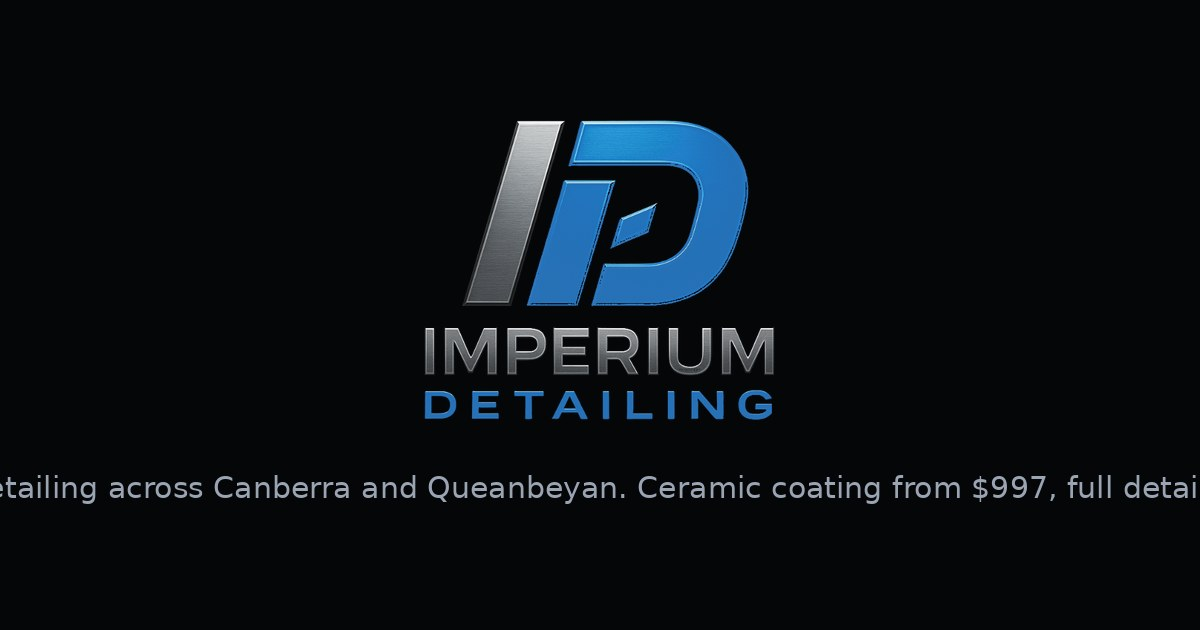
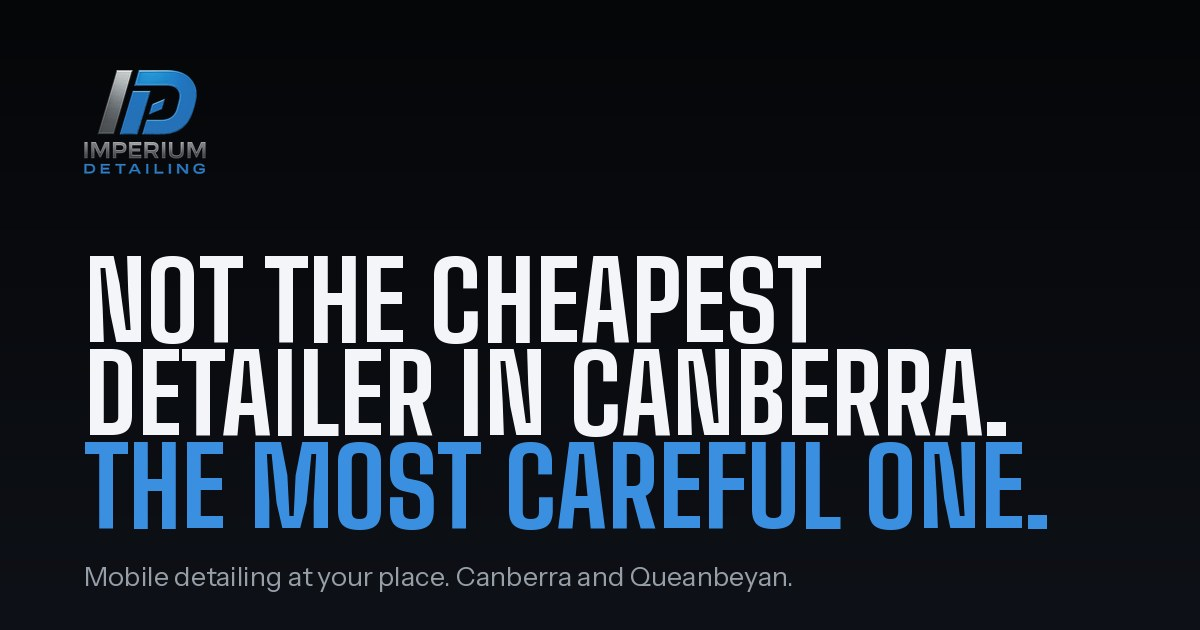
Close the technical SEO gaps the audit found
The share card was cut off at both edges — it read "etailing across Canberra
and ... full detai" — which is what everyone saw who shared the site
anywhere. Rebuilt in the site's own Big Shoulders and Instrument Sans, and
the builder now measures every line against the margins and shrinks to fit,
because nothing measured before. It carries the tagline rather than the
description, so the card itself turns away the wrong customer.

/car-detailing-canberra/ targets the broadest local search there is and had
no inbound link from anywhere on the site, so nothing passed to it. It is in
the footer now, with an all-areas link beside it.

The business listing gains coordinates and a service radius, which is what a
mobile business declares in place of a shopfront, and its sameAs now names
the Google Business Profile. That profile link also replaces the Maps search
behind "Read them on Google", which could list competitors alongside
Imperium and rendered differently on different devices.

The three guides were undated in the markup and on the page. They now carry
datePublished and dateModified taken from when the copy was actually written
and last revised, show that date to the reader so the two agree, and are
tagged og:type article rather than website. Every page emits og:url, so a
shared link with tracking on it collapses to the real one.

Claude-Session: https://claude.ai/code/session_01GvzXowE5nZSwUDMUMfhmdR

Changed region(s): [[0.0, 0.181, 1.0, 0.8444], [0.0617, 0.0905, 0.185, 0.3016], [0.0617, 0.9048, 0.6475, 0.9349]]

diff --git a/website/app/learn/[slug]/page.tsx b/website/app/learn/[slug]/page.tsx
@@ -2,6 +2,7 @@ import type { Metadata } from "next";
 import Link from "next/link";
 import { notFound } from "next/navigation";
 import { articles, getArticle } from "@/lib/articles";
+import { site } from "@/lib/site";
 import { services, formatPrice } from "@/lib/services";
 import { Faq } from "@/components/site/faq";
 import { CtaBand } from "@/components/site/cta-band";
@@ -17,7 +18,17 @@ export async function generateMetadata({ params }: { params: Promise<Params> }):
   const { slug } = await params;
   const a = getArticle(slug);
   if (!a) return {};
-  return { title: a.title, description: a.description, alternates: { canonical: `/learn/${a.slug}/` } };
+  return {
+    title: a.title,
+    description: a.description,
+    alternates: { canonical: `/learn/${a.slug}/` },
+    openGraph: {
+      url: `/learn/${a.slug}/`,
+      type: "article",
+      publishedTime: a.published,
+      modifiedTime: a.updated,
+    },
+  };
 }
 
 export default async function ArticlePage({ params }: { params: Promise<Params> }) {
@@ -25,13 +36,24 @@ export default async function ArticlePage({ params }: { params: Promise<Params> 
   const a = getArticle(slug);
   if (!a) notFound();
 
+  const url = `${site.url}/learn/${a.slug}/`;
   const ld = {
     "@context": "https://schema.org",
     "@type": "Article",
     headline: a.h1,
     description: a.description,
-    author: { "@type": "Organization", name: "Imperium Detailing" },
-    publisher: { "@type": "Organization", name: "Imperium Detailing" },
+    // Without these a guide has no age, and Google has nothing to freshen it on.
+    datePublished: a.published,
+    dateModified: a.updated,
+    mainEntityOfPage: { "@type": "WebPage", "@id": url },
+    image: `${site.url}/brand/og-image.jpg`,
+    author: { "@type": "Organization", name: site.name, url: site.url },
+    publisher: {
+      "@type": "Organization",
+      name: site.name,
+      url: site.url,
+      logo: { "@type": "ImageObject", url: `${site.url}/brand/logo-full-dark-640.png` },
+    },
   };
 
   return (
@@ -41,6 +63,12 @@ export default async function ArticlePage({ params }: { params: Promise<Params> 
         <Breadcrumbs items={[{ href: "/learn/", label: "Guides" }, { href: `/learn/${a.slug}/`, label: a.title }]} />
         <h1 className="display-caps mt-3 max-w-4xl text-5xl md:text-7xl">{a.h1}</h1>
         <p className="mt-6 max-w-[62ch] text-lg text-secondary-foreground">{a.intro}</p>
+        <p className="mt-4 text-sm text-muted-foreground">
+          Last updated{" "}
+          <time dateTime={a.updated}>
+            {new Date(a.updated).toLocaleDateString("en-AU", { day: "numeric", month: "long", year: "numeric" })}
+          </time>
+        </p>
 
         <div className="mt-10 grid gap-10 md:grid-cols-12">
           <div className="grid gap-10 md:col-span-8">

diff --git a/website/lib/articles.ts b/website/lib/articles.ts
@@ -4,6 +4,9 @@ export type Section = { h: string; p?: string[]; list?: string[] };
 
 export type Article = {
   slug: string;
+  /** ISO dates. Google wants these on a guide, and wants them to match what the page shows. */
+  published: string;
+  updated: string;
   title: string;
   description: string;
   h1: string;
@@ -16,6 +19,8 @@ export type Article = {
 export const articles: Article[] = [
   {
     slug: "car-detailing-cost-canberra",
+    published: "2026-09-12",
+    updated: "2026-09-13",
     title: "Car Detailing Cost in Canberra (2026)",
     description:
       "Real Canberra detailing prices: what a full detail, interior, exterior, paint correction and ceramic coating actually cost, and what moves the price.",
@@ -80,6 +85,8 @@ export const articles: Article[] = [
   },
   {
     slug: "ceramic-coating-vs-paint-correction",
+    published: "2026-09-12",
+    updated: "2026-09-13",
     title: "Ceramic Coating vs Paint Correction",
     description:
       "The difference between paint correction and ceramic coating, which order they happen in, and how to tell which one your car needs.",
@@ -133,6 +140,8 @@ export const articles: Article[] = [
   },
   {
     slug: "dealer-paint-protection-vs-ceramic-coating",
+    published: "2026-09-12",
+    updated: "2026-09-13",
     title: "Dealer Paint Protection vs Ceramic",
     description:
       "What the dealer's paint protection package usually is, what a real ceramic coating is, and the questions to ask before you sign for either.",

diff --git a/website/lib/site.ts b/website/lib/site.ts
@@ -19,7 +19,10 @@ export const site = {
   quotePromise: "You'll have a quote back within a few hours, 7 days a week.",
   stats: { cars: "400+", rating: "4.9", reviewCount: 45, warrantyYears: 7 },
   // Google Business Profile: where the reviews are read, and the direct "write a review" link.
-  googleReviewsUrl: "https://www.google.com/maps/search/Imperium+Detailing+Canberra",
+  // The business profile itself, not a Maps search — a search can list competitors
+  // alongside Imperium and renders differently on different devices. Same profile
+  // ID as the write-a-review link below.
+  googleReviewsUrl: "https://g.page/r/CSwRG2iKFelCEBM/",
   googleWriteReviewUrl: "https://g.page/r/CSwRG2iKFelCEBM/review",
   // Integrations. Set these in .env.local (see README); empty means "not loaded".
   // Web3Forms takes the quote form and emails it. Its access key is public by

diff --git a/website/components/site/json-ld.tsx b/website/components/site/json-ld.tsx
@@ -34,7 +34,17 @@ export function JsonLd() {
         closes: "17:30",
       },
     ],
-    sameAs: [site.instagram],
+    // Canberra's centre. A mobile business has no shopfront to pin, but Google
+    // still wants a point to measure "near me" searches from.
+    geo: { "@type": "GeoCoordinates", latitude: -35.2802, longitude: 149.131 },
+    // The van travels; this is the radius it covers, which is what a service-area
+    // business declares instead of a street address.
+    serviceArea: {
+      "@type": "GeoCircle",
+      geoMidpoint: { "@type": "GeoCoordinates", latitude: -35.2802, longitude: 149.131 },
+      geoRadius: "40000",
+    },
+    sameAs: [site.instagram, site.googleReviewsUrl],
     aggregateRating: {
       "@type": "AggregateRating",
       ratingValue: site.stats.rating,

diff --git a/website/app/warranty/page.tsx b/website/app/warranty/page.tsx
@@ -6,7 +6,7 @@ import { CtaBand } from "@/components/site/cta-band";
 export const metadata: Metadata = {
   title: "Ceramic Coating Warranty",
   description: "What Imperium Detailing's written 3, 5 and 7-year ceramic coating warranty covers, what keeps it valid, and how to make a claim.",
-  alternates: { canonical: "/warranty/" },
+  alternates: { canonical: "/warranty/" }, openGraph: { url: "/warranty/" },
 };
 
 const P = ({ children }: { children: React.ReactNode }) => <p className="mt-4 max-w-[64ch] text-[17px] text-secondary-foreground">{children}</p>;

diff --git a/website/app/car-detailing-canberra/page.tsx b/website/app/car-detailing-canberra/page.tsx
@@ -8,7 +8,7 @@ import { Booking } from "@/components/site/booking";
 export const metadata: Metadata = {
   title: "Car Detailing Canberra from $225",
   description: "Mobile car detailing in Canberra: full details from $225, interior from $140, exterior from $110. We come to your driveway or workplace, no call-out fee.",
-  alternates: { canonical: "/car-detailing-canberra/" },
+  alternates: { canonical: "/car-detailing-canberra/" }, openGraph: { url: "/car-detailing-canberra/" },
 };
 
 export default function CarDetailingCanberraPage() {

diff --git a/website/components/site/footer.tsx b/website/components/site/footer.tsx
@@ -90,6 +90,14 @@ export function Footer() {
                 {a.name}
               </Link>
             ))}
+            {/* This page targets the broadest local search there is and had no
+                inbound link anywhere on the site, so nothing passed to it. */}
+            <Link href="/car-detailing-canberra/" className={link}>
+              Car detailing Canberra
+            </Link>
+            <Link href="/service-areas/" className={link}>
+              All areas
+            </Link>
           </div>
         </div>
 

diff --git a/website/app/services/[slug]/page.tsx b/website/app/services/[slug]/page.tsx
@@ -23,7 +23,7 @@ export async function generateMetadata({ params }: { params: Promise<Params> }):
   const { slug } = await params;
   const s = getService(slug);
   if (!s) return {};
-  return { title: s.title, description: s.description, alternates: { canonical: `/services/${s.slug}/` } };
+  return { title: s.title, description: s.description, alternates: { canonical: `/services/${s.slug}/` }, openGraph: { url: `/services/${s.slug}/` } };
 }
 
 export default async function ServicePage({ params }: { params: Promise<Params> }) {

diff --git a/website/app/privacy/page.tsx b/website/app/privacy/page.tsx
@@ -4,7 +4,7 @@ import { site } from "@/lib/site";
 export const metadata: Metadata = {
   title: "Privacy Policy",
   description: "How Imperium Detailing collects, uses and protects the personal information you share when you request a quote or book a detail.",
-  alternates: { canonical: "/privacy/" },
+  alternates: { canonical: "/privacy/" }, openGraph: { url: "/privacy/" },
 };
 
 const P = ({ children }: { children: React.ReactNode }) => <p className="mt-4 max-w-[64ch] text-[17px] text-secondary-foreground">{children}</p>;

diff --git a/website/app/terms/page.tsx b/website/app/terms/page.tsx
@@ -5,7 +5,7 @@ import { site } from "@/lib/site";
 export const metadata: Metadata = {
   title: "Terms of Service",
   description: "The plain-English terms for booking a mobile detail, paint correction or ceramic coating with Imperium Detailing.",
-  alternates: { canonical: "/terms/" },
+  alternates: { canonical: "/terms/" }, openGraph: { url: "/terms/" },
 };
 
 const P = ({ children }: { children: React.ReactNode }) => <p className="mt-4 max-w-[64ch] text-[17px] text-secondary-foreground">{children}</p>;

diff --git a/website/app/service-areas/[slug]/page.tsx b/website/app/service-areas/[slug]/page.tsx
@@ -20,7 +20,7 @@ export async function generateMetadata({ params }: { params: Promise<Params> }):
   return {
     title: `Mobile Car Detailing ${a.name}`,
     description: `Mobile detailing, ceramic coating and paint correction in ${a.name}: ${a.suburbs.slice(0, 3).join(", ")} and nearby. We come to you, no call-out fee.`,
-    alternates: { canonical: `/service-areas/${a.slug}/` },
+    alternates: { canonical: `/service-areas/${a.slug}/` }, openGraph: { url: `/service-areas/${a.slug}/` },
   };
 }
 

diff --git a/website/app/service-areas/page.tsx b/website/app/service-areas/page.tsx
@@ -7,7 +7,7 @@ import { CtaBand } from "@/components/site/cta-band";
 export const metadata: Metadata = {
   title: "Mobile Detailing Service Areas Canberra",
   description: "Fully mobile car detailing across nine Canberra districts and Queanbeyan: no shop, no call-out fee. We come to your driveway, car park or workplace.",
-  alternates: { canonical: "/service-areas/" },
+  alternates: { canonical: "/service-areas/" }, openGraph: { url: "/service-areas/" },
 };
 
 export default function AreasPage() {
